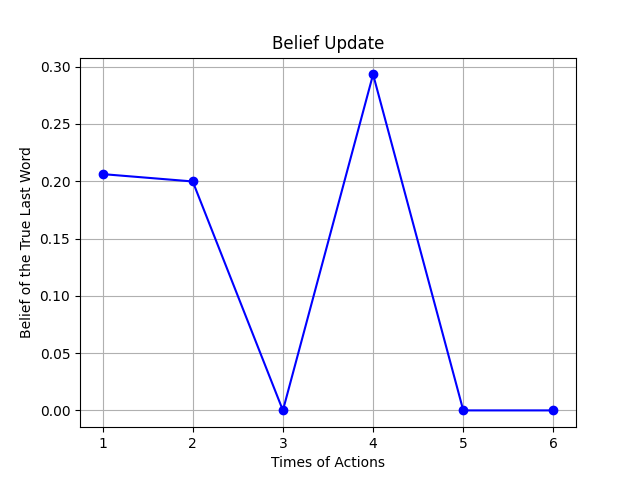
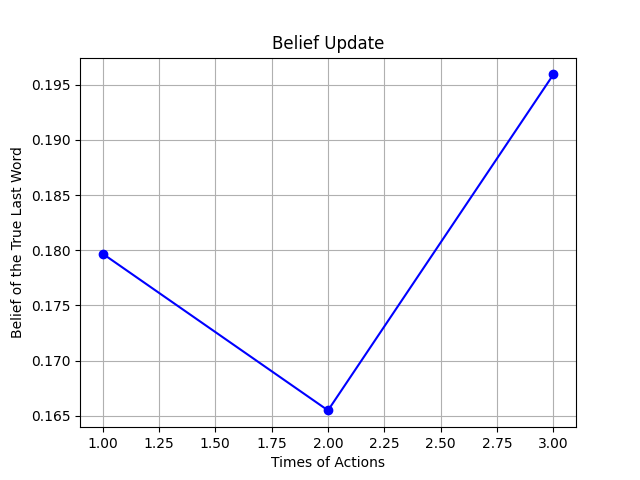
Plot - POMDPRead.py - try with previous 12 cells grids.

diff --git a/huc/envs/mobile_reading/POMDPRead.py b/huc/envs/mobile_reading/POMDPRead.py
@@ -26,7 +26,7 @@ class POMDPSelect(Env):
             self._config = yaml.load(f, Loader=yaml.FullLoader)
 
         # Load the MuJoCo model
-        self._model = mujoco.MjModel.from_xml_path(os.path.join(directory, "mdp-resume-read-v2.xml"))
+        self._model = mujoco.MjModel.from_xml_path(os.path.join(directory, "mdp-resume-read-v1.xml"))
         self._data = mujoco.MjData(self._model)
         mujoco.mj_forward(self._model, self._data)
 
@@ -130,7 +130,7 @@ class POMDPSelect(Env):
         self._num_stk_frm = 1
         self._vision_frames = None
         self._qpos_frames = None
-        self._num_stateful_info = 35
+        self._num_stateful_info = 15
         self.observation_space = Box(low=-1, high=1, shape=(self._num_stateful_info,))
 
         # Define the action space
@@ -189,8 +189,8 @@ class POMDPSelect(Env):
         # Configure the stochastic hyperparameters in test mode
         if self._config['rl']['mode'] == 'test':
             if params is None:
-                self._init_delta_t = 2
-                self._init_sigma_position_memory = 3
+                self._init_delta_t = 4
+                self._init_sigma_position_memory = 5
                 self._weight_memory_decay = 0.75
                 layout_name = self._L0
             else:
@@ -394,7 +394,8 @@ class POMDPSelect(Env):
 
         # Observation space check
         if stateful_info.shape[0] != self._num_stateful_info:
-            raise ValueError("The shape of stateful information observation is not correct!")
+            raise ValueError(f"The shape of stateful information observation is not correct! "
+                             f"The allocated shape is: {self._num_stateful_info}, the actual shape is: {stateful_info.shape[0]}")
 
         return stateful_info
 
